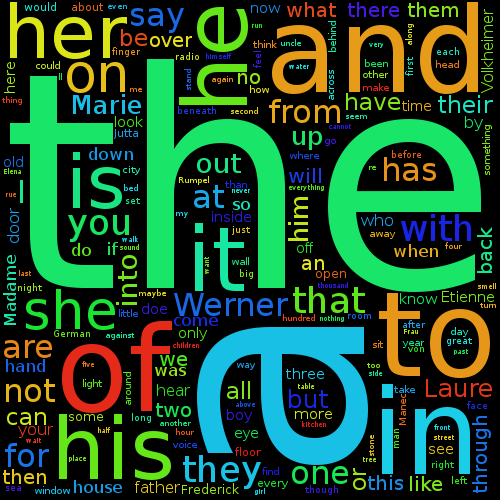
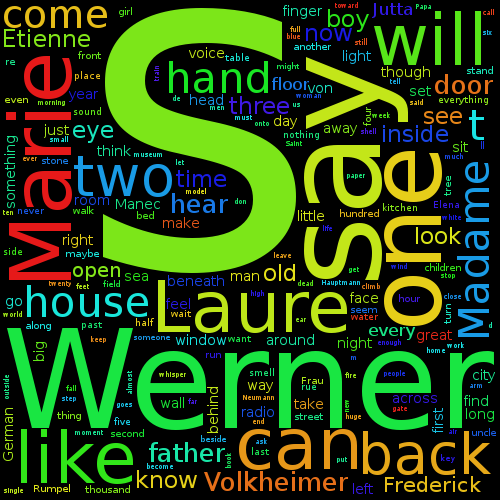
update stopwords again

diff --git a/cloud.py b/cloud.py
@@ -1,9 +1,11 @@
 import sys
 from wordcloud import WordCloud
 
+stops = ["a","about","above","after","again","against","all","am","an","and","any","are","aren't","as","at","be","because","been","before","being","below","between","both","but","by","can't","cannot","could","couldn't","did","didn't","do","does","doesn't","doing","don't","down","during","each","few","for","from","further","had","hadn't","has","hasn't","have","haven't","having","he","he'd","he'll","he's","her","here","here's","hers","herself","him","himself","his","how","how's","i","i'd","i'll","i'm","i've","if","in","into","is","isn't","it","it's","its","itself","let's","me","more","most","mustn't","my","myself","no","nor","not","of","off","on","once","only","or","other","ought","our","ours","ourselves","out","over","own","same","shan't","she","she'd","she'll","she's","should","shouldn't","so","some","such","than","that","that's","the","their","theirs","them","themselves","then","there","there's","these","they","they'd","they'll","they're","they've","this","those","through","to","too","under","until","up","very","was","wasn't","we","we'd","we'll","we're","we've","were","weren't","what","what's","when","when's","where","where's","which","while","who","who's","whom","why","why's","with","won't","would","wouldn't","you","you'd","you'll","you're","you've","your","yours","yourself","yourselves"]
+
 def genWordCloud(filename):
     text = open(filename).read()
-    words = WordCloud(width=500, height=500, font_path='/usr/share/fonts/truetype/dejavu/DejaVuSans.ttf', stopwords=['s','t','said','m'])
+    words = WordCloud(width=500, height=500, font_path='/usr/share/fonts/truetype/dejavu/DejaVuSans.ttf', stopwords=stops)
     words.generate(text)
     words.to_file(filename.split('.')[0] + '_500.png')
 
